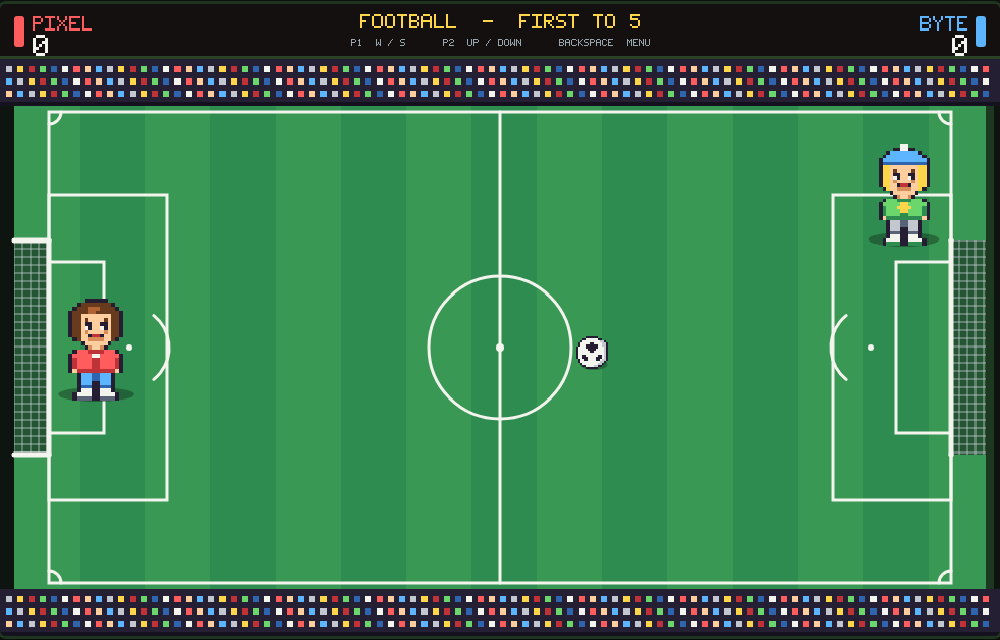
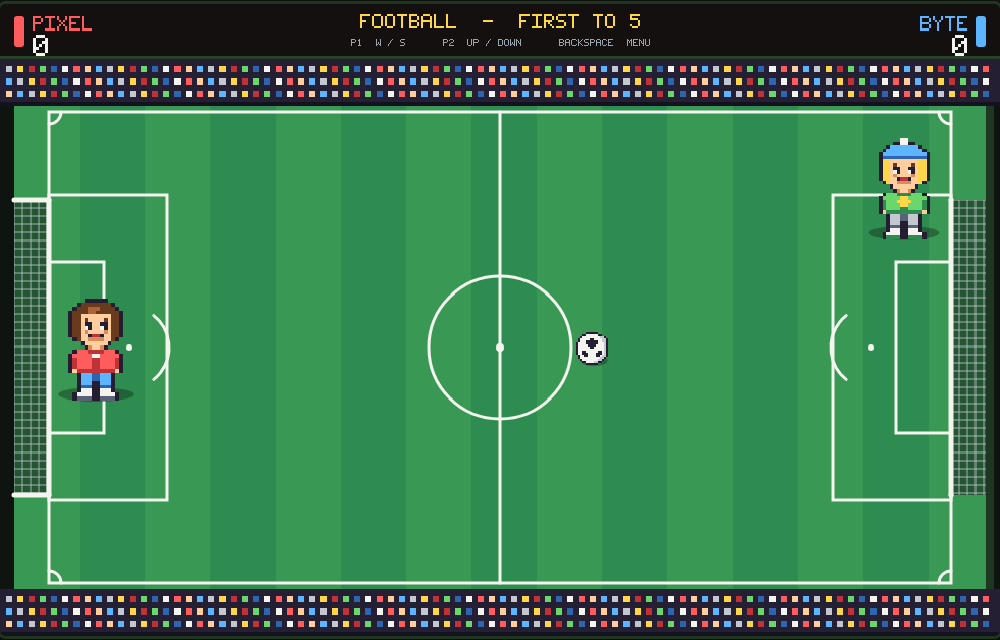
Make football goals bigger (goal mouth 210 -> 290px)
Claude-Session: https://claude.ai/code/session_01BmHu9ZjHHfJoGBLXT33Kpc

diff --git a/game/football.js b/game/football.js
@@ -51,7 +51,7 @@
   const HUD = 54, STAND = 46;
   const FX = 14, FY = HUD + STAND, FW = W - 28, FH = H - HUD - STAND - STAND;
   const fieldTop = FY, fieldBot = FY + FH, cxC = FX + FW / 2, cyC = FY + FH / 2;
-  const GOAL_H = 210, goalTop = cyC - GOAL_H / 2, goalBot = cyC + GOAL_H / 2;
+  const GOAL_H = 290, goalTop = cyC - GOAL_H / 2, goalBot = cyC + GOAL_H / 2;
   const NET_DEPTH = 34;
   const leftLine = FX + NET_DEPTH, rightLine = FX + FW - NET_DEPTH;
 
